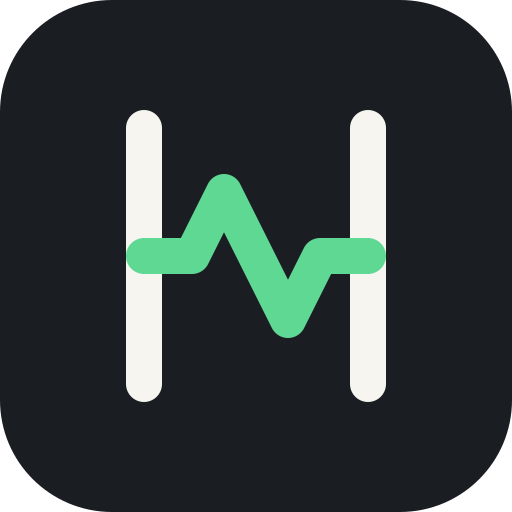
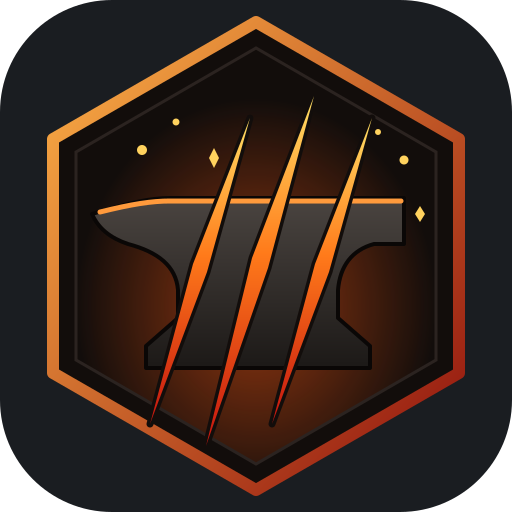
brand: molten anvil mark replaces the tick-trace H
the master mark is now an anvil in a hex badge cut by three molten claw
slashes. build_brand.py draws it on a 512 grid and scales it into the
32px tile and the profile banner; the banner wordmark goes to HORDEFORGE,
weight 800, FORGE in the molten gradient. the single-color glyph is the
hex plus the slashes. product tiles, suites and palette are unchanged.
avatar.png re-rendered from the new tile.

diff --git a/brand/index.html b/brand/index.html
@@ -105,7 +105,7 @@ ul{list-style:none;margin:0;padding:0}
 </head>
 <body>
 <main>
-<header class="hero"><svg class="mark" xmlns="http://www.w3.org/2000/svg" viewBox="0 0 32 32" width="32" height="32" role="img" aria-label="HordeForge"><rect width="32" height="32" rx="7" fill="#1a1d21"/><g transform="translate(4 4)" fill="none" stroke-width="2.25" stroke-linecap="round" stroke-linejoin="round"><path d="M5 4v16M19 4v16" stroke="#f7f5f0"/><path d="M5 12h3l2-4 4 8 2-4h3" stroke="#5fd894"/></g></svg>
+<header class="hero"><svg class="mark" xmlns="http://www.w3.org/2000/svg" viewBox="0 0 32 32" width="32" height="32" role="img" aria-label="HordeForge"><defs><linearGradient id="hf-molten" x1="0" y1="0" x2="0" y2="1"><stop offset="0" stop-color="#ffe066"/><stop offset="0.45" stop-color="#ff7a1a"/><stop offset="1" stop-color="#c4140f"/></linearGradient><linearGradient id="hf-rim" x1="0" y1="0" x2="1" y2="1"><stop offset="0" stop-color="#ffb347"/><stop offset="1" stop-color="#8f0f0c"/></linearGradient><linearGradient id="hf-iron" x1="0" y1="0" x2="0" y2="1"><stop offset="0" stop-color="#4a4440"/><stop offset="1" stop-color="#1c1917"/></linearGradient><radialGradient id="hf-glow" cx="0.5" cy="0.62" r="0.5"><stop offset="0" stop-color="#ff5a14" stop-opacity="0.55"/><stop offset="1" stop-color="#ff5a14" stop-opacity="0"/></radialGradient></defs><rect width="32" height="32" rx="7" fill="#1a1d21"/><g transform="scale(0.0625)"><polygon points="256,22 459,139 459,373 256,490 53,373 53,139" fill="#120d0b" stroke="url(#hf-rim)" stroke-width="12" stroke-linejoin="round"/><polygon points="256,48 436,152 436,360 256,464 76,360 76,152" fill="url(#hf-glow)" stroke="#2b2320" stroke-width="3"/><path d="M92,214 C128,203 150,198 170,198 L404,198 L404,244 L374,244 C352,250 340,266 338,290 L338,318 L370,346 L370,368 L146,368 L146,346 L178,318 L178,290 C176,266 158,252 128,244 C110,238 98,228 92,214 Z" fill="url(#hf-iron)" stroke="#0a0706" stroke-width="4" stroke-linejoin="round"/><path d="M100,212 C132,204 152,201 170,201 L401,201" fill="none" stroke="#ff9a3c" stroke-width="5" stroke-linecap="round"/><g fill="url(#hf-molten)" stroke="#120d0b" stroke-width="7" stroke-linejoin="round" paint-order="stroke"><polygon points="250,118 207,272 150,424 193,264"/><polygon points="314,96 268,268 206,446 252,258"/><polygon points="372,118 329,272 272,424 315,264"/></g><g fill="#ffd25e"><circle cx="142" cy="150" r="5"/><circle cx="176" cy="122" r="3.5"/><circle cx="404" cy="160" r="4.5"/><circle cx="378" cy="132" r="3"/><polygon points="214,148 219,158 214,168 209,158"/><polygon points="420,206 425,214 420,222 415,214"/></g></g></svg>
 <div><h1>HordeForge</h1><p>Marks, product tiles, palette and icon library. Generated by <code>scripts/build_brand.py</code>; the rules live in <code>brand/README.md</code>.</p></div></header>
 <h2>Products (18)</h2>
 <section class="suite"><h3><span class="dot" style="background:#0f5c37"></span>Servers &amp; Engine <code>#0f5c37</code></h3><ul class="products"><li class="product"><svg class="tile" xmlns="http://www.w3.org/2000/svg" viewBox="0 0 32 32" width="32" height="32" role="img" aria-label="BloodWire (ZDTD Server)"><rect width="32" height="32" rx="7" fill="#0f5c37"/><g transform="translate(4 4)" fill="none" stroke="#f7f5f0" stroke-width="2" stroke-linecap="round" stroke-linejoin="round"><path d="M6 5h12L9.5 12H15l-9 7h12" /></g></svg>

diff --git a/scripts/build_brand.py b/scripts/build_brand.py
@@ -39,7 +39,12 @@ class BrandData(TypedDict):
 
 PAPER = "#f7f5f0"
 INK = "#1a1d21"
-PULSE = "#5fd894"
+MOLTEN_HOT = "#ffe066"
+MOLTEN = "#ff7a1a"
+MOLTEN_DEEP = "#c4140f"
+EMBER = "#ffd25e"
+FORGE_GROUND = "#120d0b"
+BADGE_PX = 512  # the mark is drawn on a 512 grid and scaled to each output
 TILE_PX = 32
 TILE_RADIUS = 7
 GLYPH_OFFSET = 4  # centers the 24px glyph grid in the 32px tile
@@ -86,16 +91,54 @@ def tile_svg(label: str, fill: str, body: str) -> str:
     )
 
 
+def badge_defs() -> str:
+    return (
+        "<defs>"
+        '<linearGradient id="hf-molten" x1="0" y1="0" x2="0" y2="1">'
+        f'<stop offset="0" stop-color="{MOLTEN_HOT}"/><stop offset="0.45" stop-color="{MOLTEN}"/>'
+        f'<stop offset="1" stop-color="{MOLTEN_DEEP}"/></linearGradient>'
+        '<linearGradient id="hf-rim" x1="0" y1="0" x2="1" y2="1">'
+        '<stop offset="0" stop-color="#ffb347"/><stop offset="1" stop-color="#8f0f0c"/></linearGradient>'
+        '<linearGradient id="hf-iron" x1="0" y1="0" x2="0" y2="1">'
+        '<stop offset="0" stop-color="#4a4440"/><stop offset="1" stop-color="#1c1917"/></linearGradient>'
+        '<radialGradient id="hf-glow" cx="0.5" cy="0.62" r="0.5">'
+        '<stop offset="0" stop-color="#ff5a14" stop-opacity="0.55"/>'
+        '<stop offset="1" stop-color="#ff5a14" stop-opacity="0"/></radialGradient>'
+        "</defs>"
+    )
+
+
+def badge_body() -> str:
+    """The HordeForge mark on the 512 grid: an anvil in a hex badge, cut by
+    three molten claw slashes."""
+    return (
+        '<polygon points="256,22 459,139 459,373 256,490 53,373 53,139" '
+        f'fill="{FORGE_GROUND}" stroke="url(#hf-rim)" stroke-width="12" stroke-linejoin="round"/>'
+        '<polygon points="256,48 436,152 436,360 256,464 76,360 76,152" '
+        'fill="url(#hf-glow)" stroke="#2b2320" stroke-width="3"/>'
+        '<path d="M92,214 C128,203 150,198 170,198 L404,198 L404,244 L374,244 C352,250 340,266 338,290 '
+        "L338,318 L370,346 L370,368 L146,368 L146,346 L178,318 L178,290 C176,266 158,252 128,244 "
+        'C110,238 98,228 92,214 Z" fill="url(#hf-iron)" stroke="#0a0706" stroke-width="4" stroke-linejoin="round"/>'
+        '<path d="M100,212 C132,204 152,201 170,201 L401,201" fill="none" stroke="#ff9a3c" '
+        'stroke-width="5" stroke-linecap="round"/>'
+        f'<g fill="url(#hf-molten)" stroke="{FORGE_GROUND}" stroke-width="7" stroke-linejoin="round" '
+        'paint-order="stroke">'
+        '<polygon points="250,118 207,272 150,424 193,264"/>'
+        '<polygon points="314,96 268,268 206,446 252,258"/>'
+        '<polygon points="372,118 329,272 272,424 315,264"/></g>'
+        f'<g fill="{EMBER}"><circle cx="142" cy="150" r="5"/><circle cx="176" cy="122" r="3.5"/>'
+        '<circle cx="404" cy="160" r="4.5"/><circle cx="378" cy="132" r="3"/>'
+        '<polygon points="214,148 219,158 214,168 209,158"/><polygon points="420,206 425,214 420,222 415,214"/></g>'
+    )
+
+
 def master_tile() -> str:
-    """The HordeForge mark: paper stems, terminal-green pulse, on ink."""
+    """The HordeForge mark as a 32px tile on ink."""
     return (
         f'<svg xmlns="http://www.w3.org/2000/svg" viewBox="0 0 {TILE_PX} {TILE_PX}" '
-        f'width="{TILE_PX}" height="{TILE_PX}" role="img" aria-label="HordeForge">'
+        f'width="{TILE_PX}" height="{TILE_PX}" role="img" aria-label="HordeForge">{badge_defs()}'
         f'<rect width="{TILE_PX}" height="{TILE_PX}" rx="{TILE_RADIUS}" fill="{INK}"/>'
-        f'<g transform="translate({GLYPH_OFFSET} {GLYPH_OFFSET})" fill="none" stroke-width="2.25" '
-        f'stroke-linecap="round" stroke-linejoin="round">'
-        f'<path d="M5 4v16M19 4v16" stroke="{PAPER}"/>'
-        f'<path d="M5 12h3l2-4 4 8 2-4h3" stroke="{PULSE}"/></g></svg>\n'
+        f'<g transform="scale({TILE_PX / BADGE_PX})">{badge_body()}</g></svg>\n'
     )
 
 
@@ -105,17 +148,16 @@ def banner_svg() -> str:
     return (
         '<svg xmlns="http://www.w3.org/2000/svg" viewBox="0 0 880 200" width="880" height="200" '
         'role="img" aria-label="HordeForge: high-performance systems engineering for 7 Days to Die">'
+        f"{badge_defs()}"
         f'<rect width="880" height="200" rx="20" fill="{INK}"/>'
-        '<g transform="translate(56 52) scale(4)" fill="none" stroke-width="2.25" '
-        'stroke-linecap="round" stroke-linejoin="round">'
-        f'<path d="M5 4v16M19 4v16" stroke="{PAPER}"/>'
-        f'<path d="M5 12h3l2-4 4 8 2-4h3" stroke="{PULSE}"/></g>'
+        f'<g transform="translate(36 12) scale({176 / BADGE_PX})">{badge_body()}</g>'
         '<g font-family="-apple-system, BlinkMacSystemFont, \'Segoe UI\', Roboto, Helvetica, Arial, sans-serif">'
-        f'<text x="200" y="104" font-size="56" font-weight="700" fill="{PAPER}" letter-spacing="-1">HordeForge</text>'
-        '<text x="202" y="142" font-size="20" fill="#7f8b94">High-performance systems engineering for 7 Days to Die</text>'
-        '</g>'
-        f'<path d="M200 164h120" stroke="{PULSE}" stroke-width="3" stroke-linecap="round"/>'
-        '</svg>\n'
+        f'<text x="236" y="108" font-size="64" font-weight="800" fill="{PAPER}" letter-spacing="1">'
+        'HORDE<tspan fill="url(#hf-molten)">FORGE</tspan></text>'
+        '<text x="238" y="146" font-size="20" fill="#7f8b94">High-performance systems engineering for 7 Days to Die</text>'
+        "</g>"
+        f'<path d="M238 166h120" stroke="{MOLTEN}" stroke-width="3" stroke-linecap="round"/>'
+        "</svg>\n"
     )
 
 

diff --git a/brand/README.md b/brand/README.md
@@ -29,17 +29,27 @@ contrast, or a product names a glyph that is not in `glyphs/`.
 
 ## The mark
 
-An H whose crossbar is a tick trace: the 20 TPS heartbeat every HordeForge
-tool measures, forges, or defends. Paper stems, terminal-green pulse
-(`#5fd894`), ink tile (`#1a1d21`), corner radius 7 at 32px.
+An anvil in a hex badge, cut by three claw slashes: the horde tearing
+through the forge. Iron anvil, molten slashes (`#ffe066` to `#ff7a1a` to
+`#c4140f`), ember sparks (`#ffd25e`), forge ground (`#120d0b`), on the ink
+tile (`#1a1d21`, corner radius 7 at 32px). `scripts/build_brand.py` draws it
+on a 512 grid and scales it into the tile and the banner.
 
 - Use [`tiles/hordeforge.svg`](tiles/hordeforge.svg) as is. Do not recolor
-  the pulse, outline the tile, or set the mark on a busy image.
+  the slashes, outline the tile, or set the mark on a busy image.
 - Single-color contexts (a favicon mask, an embossed print) use
-  [`glyphs/hordeforge.svg`](glyphs/hordeforge.svg) in `currentColor`.
-- Minimum size 16px. Clear space around the tile: one quarter of its width.
-- The wordmark is the name set in the system sans at weight 700, never
-  redrawn or italicized: **HordeForge**, one word, capital H and F.
+  [`glyphs/hordeforge.svg`](glyphs/hordeforge.svg) in `currentColor`: the
+  hex and the three slashes, no anvil.
+- The anvil belongs to the mark only inside the badge; the Anvil product
+  keeps its own bronze tile.
+- Minimum size 24px. At 32px and under the sparks vanish and the anvil
+  reads as a bar; under 24px use the glyph. Clear space around the tile: one quarter of its width.
+- The wordmark is **HORDEFORGE** in capitals, system sans at weight 800,
+  never redrawn or italicized: HORDE in paper, FORGE in the molten
+  gradient. In running text the name stays **HordeForge**, one word,
+  capital H and F.
+- The molten colors belong to the mark. They never mark state, a button,
+  or a chart series.
 
 ## Product tiles
 
